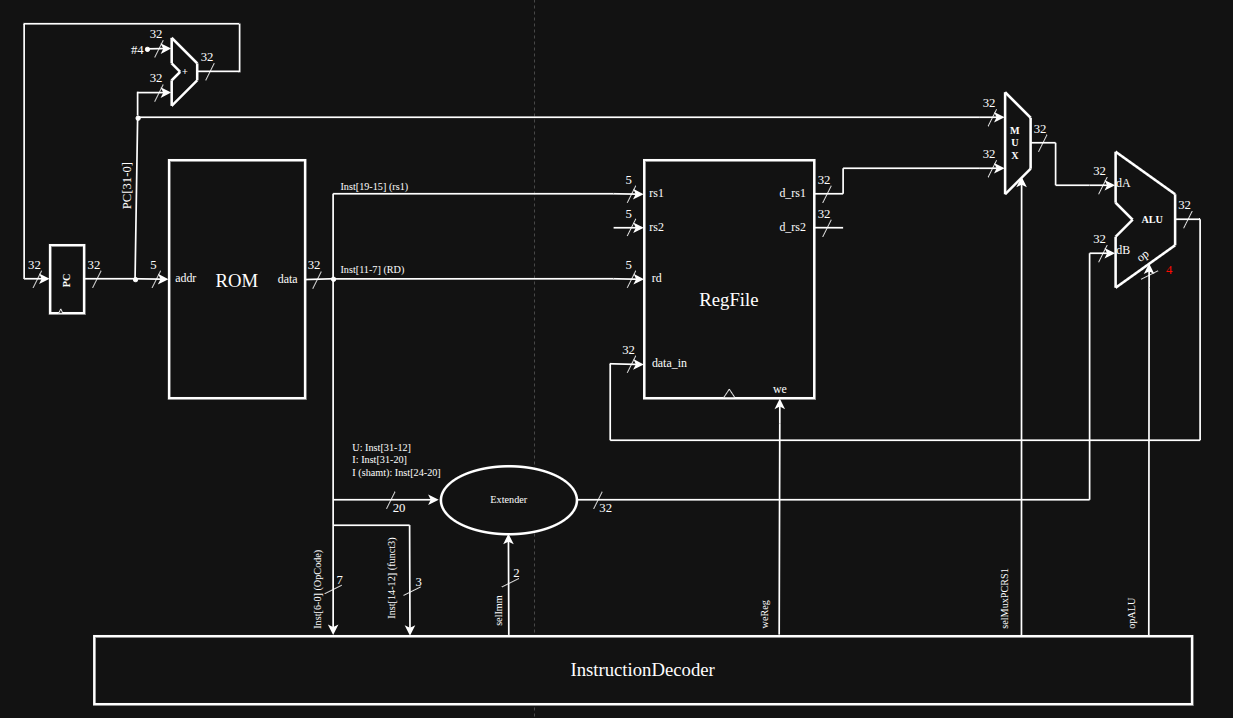
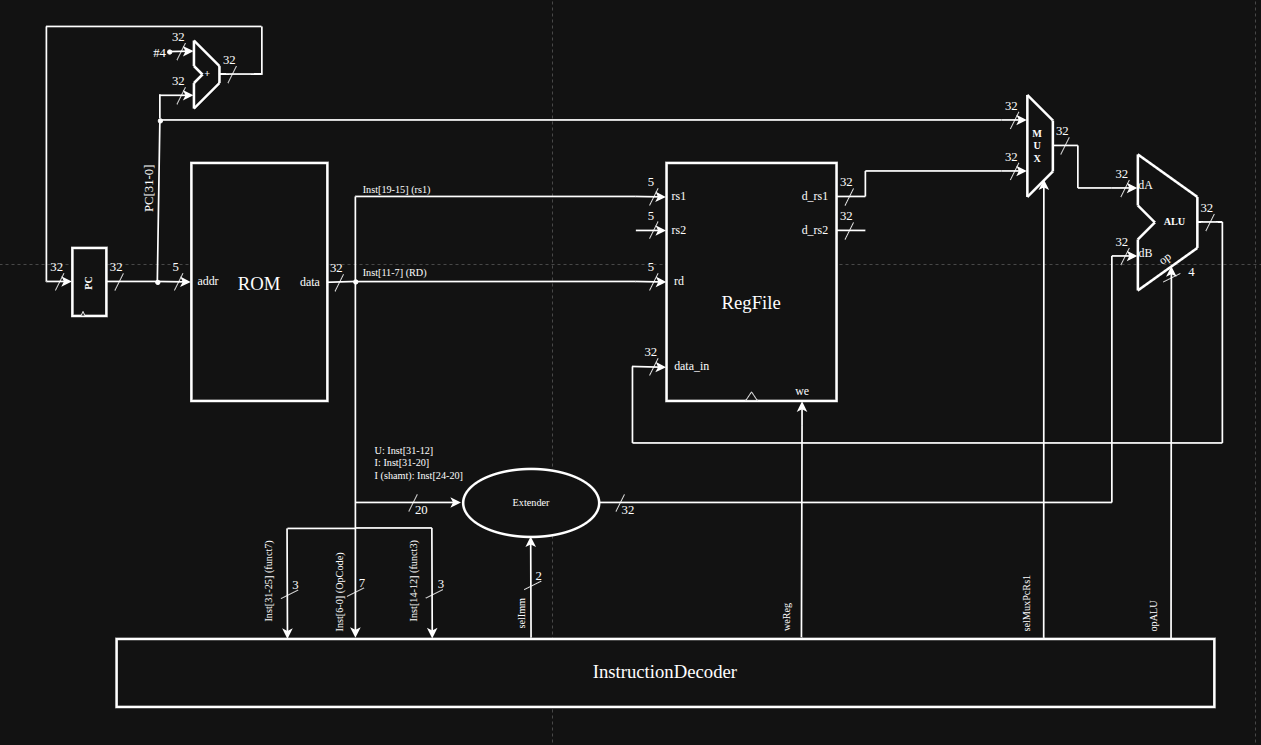
Refatoracao readme implementacao de instrucoes

Changed region(s): [[0.0, 0.0306, 0.9862, 1.0]]

diff --git a/docs/README.md b/docs/README.md
@@ -100,7 +100,26 @@ A implementação das instruções em hardware foi conduzida de forma incrementa
 | **AUIPC** | imm[31:12]            | rd        | 0010111      | `auipc rd, imm`    | `x[rd] = pc + sext(imm << 12)`   | Soma imediato ao PC (U-type) |
 
 ### Fluxo de dados
-![alt text](instructions/1-auipc.png)
+![alt text](instructions/1.png)
+
+### Características
+🐣: Nova implementação / 
+🛠: Alterado
+
+#### Extender — Operações
+- 🐣**U**: `out[31:0] = sext(instr[31:12] << 12)`
+
+#### ALU — Operações
+- 🐣**PASS_B** : `out[31:0] = B[31:0]`
+- 🐣**ADD**  : `out[31:0] = A[31:0] + B[31:0]`
+
+#### Decoder
+- **Entradas**
+   - 🐣`opcode = instr[6:0]`
+
+- **Saídas**
+   - 🐣`we` : habilita escrita no RegFile
+   - 🐣`OpALU` : Seleciona qual operação deve ser feita na ALU
 
 
 ## 2. I-type aritmético/lógico (sem desvio)
@@ -117,6 +136,38 @@ A implementação das instruções em hardware foi conduzida de forma incrementa
 
 ### Fluxo de dados
 ![alt text](instructions/2.png)
+
+### Características 
+🐣: Nova implementação / 
+🛠: Alterado
+
+#### Extender — Operações
+- **U**: `out[31:0] = sext(instr[31:12] << 12)`
+- 🐣**I**: `out[31:0] = sext(instr[31:20])`
+- 🐣**I_shamt**: `out[31:0] =  zext(instr[24:20])` (Preenhce com zeros a esquerda) (Neste momento, para as operaões de shamt)
+
+#### ALU — Operações
+- **PASS_B** : `out[31:0] = B[31:0]`
+- **ADD**    : `out[31:0] = A[31:0] + B[31:0]`
+- 🐣**XOR**    : `out[31:0] = A[31:0] ^ B[31:0]`
+- 🐣**OR**     : `out[31:0] = A[31:0] | B[31:0]`
+- 🐣**AND**    : `out[31:0] = A[31:0] & B[31:0]`
+- 🐣**SLL**    : `out[31:0] = A[31:0] << B[31:0]` (Desloca os bits de A á esquerda, preenchendo com zero a direita)
+- 🐣**SRL**    : `out[31:0] = A[31:0] >> u B[31:0]` (Desloca os bits de A para a direita, preenchendo com zeros à esquerda).
+- 🐣**SRA**    : `out[31:0] = A[31:0] << s B[31:0]` (Desloca os bits de A para a direita, replicando o bit do sinal de A á esquerda)
+
+
+#### Decoder
+- **Entradas**
+   - `opcode = instr[6:0]`
+   - 🐣`funct3 = instr[14:12]`
+   - 🐣`funct7 = instr[31:25]` (Neste momento, para diferenciar SRL e SRA)
+
+- **Saídas**
+   - `we` : habilita escrita no RegFile
+   - 🛠`OpALU[3:0]` : Seleciona qual operação deve ser feita na ALU.
+   - 🐣`selImm[1:0]` : Seleciona qual tipo de extensão a Unidade Extensora deve realizar.
+   - 🐣`selMuxPcRs1` : Seleciona entre PC e Rs1 para ser o operando A na ALU.
 
 
 ## 3. R-type completo
@@ -137,6 +188,44 @@ A implementação das instruções em hardware foi conduzida de forma incrementa
 
 ### Fluxo de dados
 ![alt text](instructions/3.png)
+
+### Características 
+🐣: Nova implementação / 
+🛠: Alterado
+
+#### Extender — Operações
+- **U**: `out[31:0] = sext(instr[31:12] << 12)`
+- **I**: `out[31:0] = sext(instr[31:20])`
+- **I_shamt**: `out[31:0] =  zext(instr[24:20])` (Preenhce com zeros a esquerda)
+
+#### ALU — Operações
+- **PASS_B** : `out[31:0] = B[31:0]`
+- **ADD**    : `out[31:0] = A[31:0] + B[31:0]`
+- **XOR**    : `out[31:0] = A[31:0] ^ B[31:0]`
+- **OR**     : `out[31:0] = A[31:0] | B[31:0]`
+- **AND**    : `out[31:0] = A[31:0] & B[31:0]`
+- **SLL**    : `out[31:0] = A[31:0] << B[31:0]` (Desloca os bits de A á esquerda, preenchendo com zero a direita)
+- **SRL**    : `out[31:0] = A[31:0] >> u B[31:0]` (Desloca os bits de A para a direita, preenchendo com zeros à esquerda).
+- **SRA**    : `out[31:0] = A[31:0] << s B[31:0]` (Desloca os bits de A para a direita, replicando o bit do sinal de A á esquerda)
+- 🐣**SUB**    : `out[31:0] = A[31:0] - B[31:0]`
+- 🐣**SLT**    : `out[31:0] = A[31:0] < s B[31:0] ? 1 : 0`
+- 🐣**SLTU**    : `out[31:0] = A[31:0] < u B[31:0] ? 1 : 0`
+
+
+#### Decoder
+- **Entradas**
+   - `opcode = instr[6:0]`
+   - `funct3 = instr[14:12]`
+   - `funct7 = instr[31:25]`
+
+- **Saídas**
+   - `we` : habilita escrita no RegFile
+   - `OpALU[2:0]` : Seleciona qual operação deve ser feita na ALU.
+   - `selImm[1:0]` : Seleciona qual tipo de extensão a Unidade Extensora deve realizar.
+   - `selMuxPcRs1` : Seleciona entre PC e Rs1 para ser o operando A na ALU.
+   - 🐣`selMuxRs2Imm` : Seleciona entre PC e Rs1 para ser o operando A na ALU.
+
+
 
 
 ## 4. Saltos (mexe no PC, mas simples)
